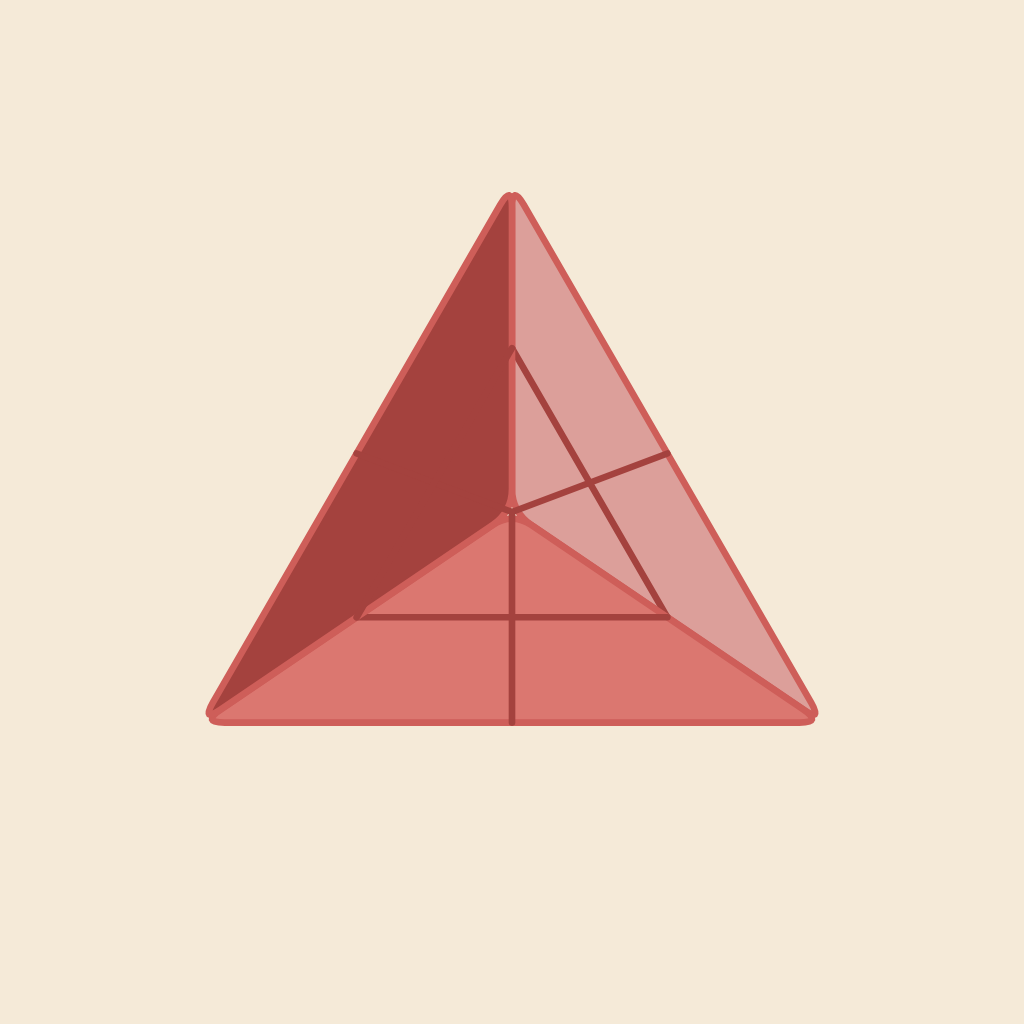
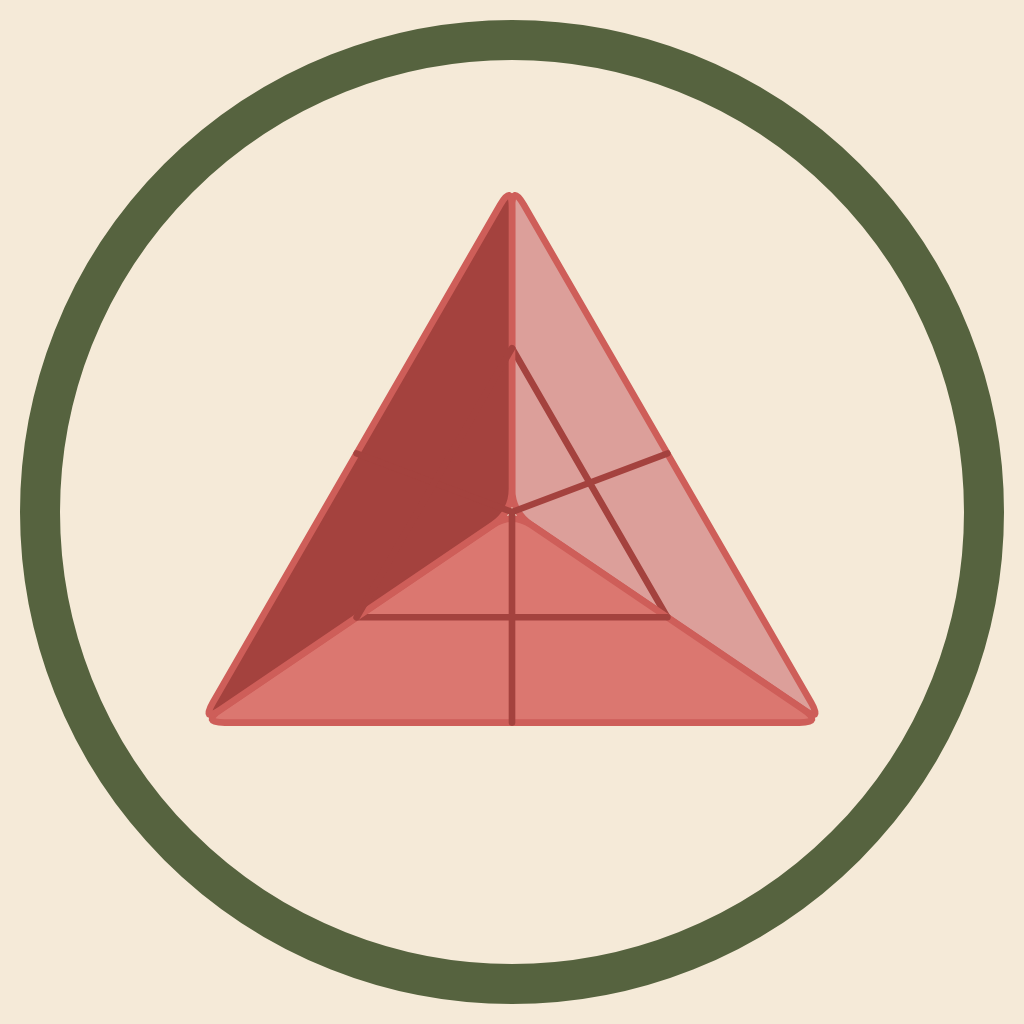
Ring the "complete" achievement images, and the whole catalogue apart
In the game an achievement and its "complete" partner share a badge, and
the list beside them says which is which. Game Center shows the images
on their own, where the pair read as duplicates. So every "win all of a
group" image now has a sage ring (the default theme's icon ink) around
the badge, and the whole catalogue a ring in the theme's terracotta
accent. The manifest records each image's ring, and a unit test pins
which achievements get one. The in-game badges are unchanged.

Claude-Session: https://claude.ai/code/session_01DAYQLaJYZw7jThu2XRe7TV

Changed region(s): [[0.0, 0.0, 1.0, 1.0]]

diff --git a/web/scripts/gamecenter-lib.ts b/web/scripts/gamecenter-lib.ts
@@ -19,7 +19,7 @@
 import path from "node:path";
 import { fileURLToPath } from "node:url";
 
-import { GAME_CENTER_ACHIEVEMENTS } from "../src/achievements";
+import { ACHIEVEMENTS_BY_ID, GAME_CENTER_ACHIEVEMENTS } from "../src/achievements";
 
 const HERE = path.dirname(fileURLToPath(import.meta.url));
 
@@ -40,6 +40,20 @@ export interface ManifestLocalization {
   image: string;
 }
 
+/** A ring drawn around an image's badge. In the game an achievement and its
+ * "complete" partner share one badge, and the list beside it says which is
+ * which; Game Center shows the images on their own, where the pair would read
+ * as a duplicate. So every "win all of a group" achievement wears a ring, and
+ * the whole catalogue a ring of another colour. */
+export type Ring = "complete" | "catalogue";
+
+function ringOf(id: string): Ring | null {
+  const a = ACHIEVEMENTS_BY_ID.get(id);
+  if (!a) return null;
+  if (a.group === "grand") return "catalogue";
+  return id.startsWith(`${a.group}-all:`) ? "complete" : null;
+}
+
 export interface ManifestAchievement {
   /** The Achievement ID. Permanent once created. */
   vendorIdentifier: string;
@@ -54,6 +68,8 @@ export interface ManifestAchievement {
   localizations: Record<string, ManifestLocalization>;
   /** The `ui/icons.ts` key the image is drawn from. */
   icon: string;
+  /** The ring around it, if any. */
+  ring: Ring | null;
 }
 
 export interface Manifest {
@@ -84,6 +100,7 @@ export function buildManifest(): Manifest {
         },
       },
       icon: a.icon,
+      ring: ringOf(a.id),
     }),
   );
   return {

diff --git a/web/tests/unit/gameCenterManifest.test.ts b/web/tests/unit/gameCenterManifest.test.ts
@@ -44,6 +44,18 @@ describe("the committed Game Center list", () => {
     expect(new Set(titles).size).toBe(titles.length);
   });
 
+  it("rings every group completion, and the whole catalogue apart", () => {
+    // A completion shares its badge with its "win any one" partner; the ring is
+    // what tells the two images apart.
+    const { achievements } = buildManifest();
+    const rings = new Map(achievements.map((a) => [a.referenceName, a.ring]));
+    for (const [id, ring] of rings) {
+      const expected = id === "all-boards" ? "catalogue" : /^[a-z]+-all:/.test(id) ? "complete" : null;
+      expect(ring, id).toBe(expected);
+    }
+    expect([...rings.values()].filter((r) => r === "complete")).toHaveLength(25);
+  });
+
   it("has a 1024 px RGB image for each achievement, and no others", () => {
     const { achievements } = buildManifest();
     const named = new Set<string>();

diff --git a/ios/README.md b/ios/README.md
@@ -349,7 +349,11 @@ Game Center has to be told about; the app does not report anything yet.
 - `images/<Achievement ID>.png`: 1024 px squares, RGB with no alpha, which is
   what App Store Connect accepts. Each is the achievement's in-game badge in the
   default theme, on the app icon's cream ground, kept inside the inscribed
-  circle so a round crop loses nothing.
+  circle so a round crop loses nothing. In the game an achievement and its
+  "complete" partner share a badge; Game Center shows the images alone, so
+  every "win all of a group" image adds a sage ring (the theme's icon ink), and
+  the whole catalogue's ring is the theme's terracotta accent. The manifest's
+  `ring` field says which each one has.
 
 Regenerate both with `npm run gamecenter` in `web/` (headless Chromium draws
 the images; `MANIFEST_ONLY=1` writes just the list, with no browser). A unit
